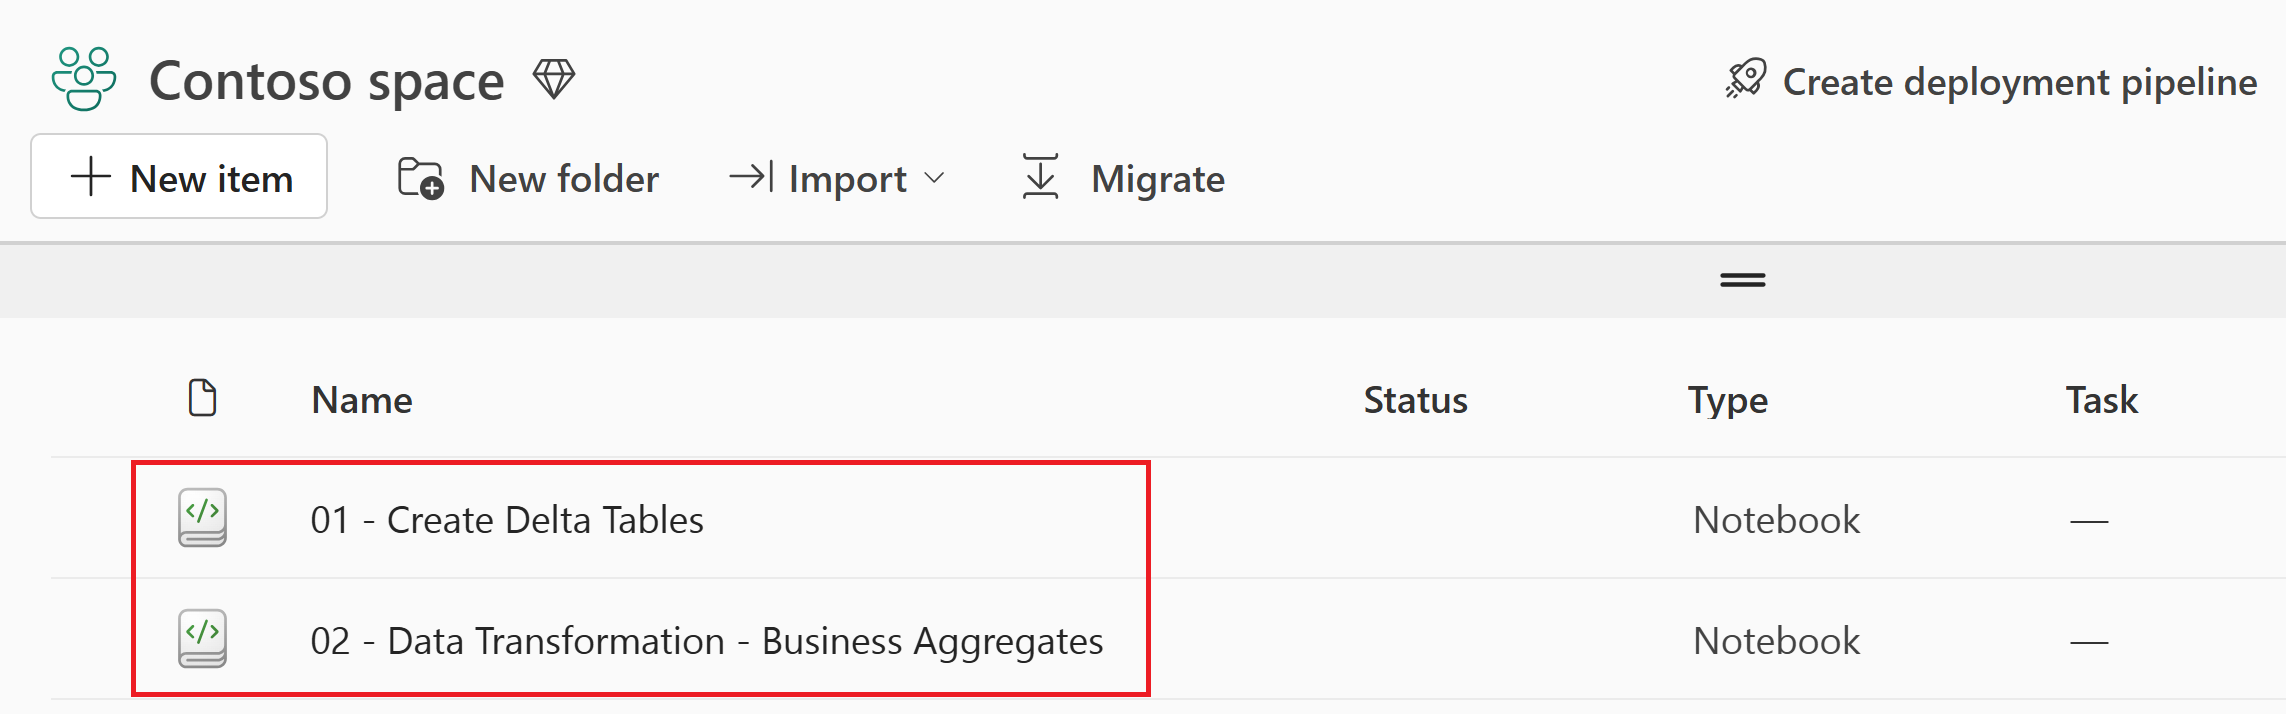
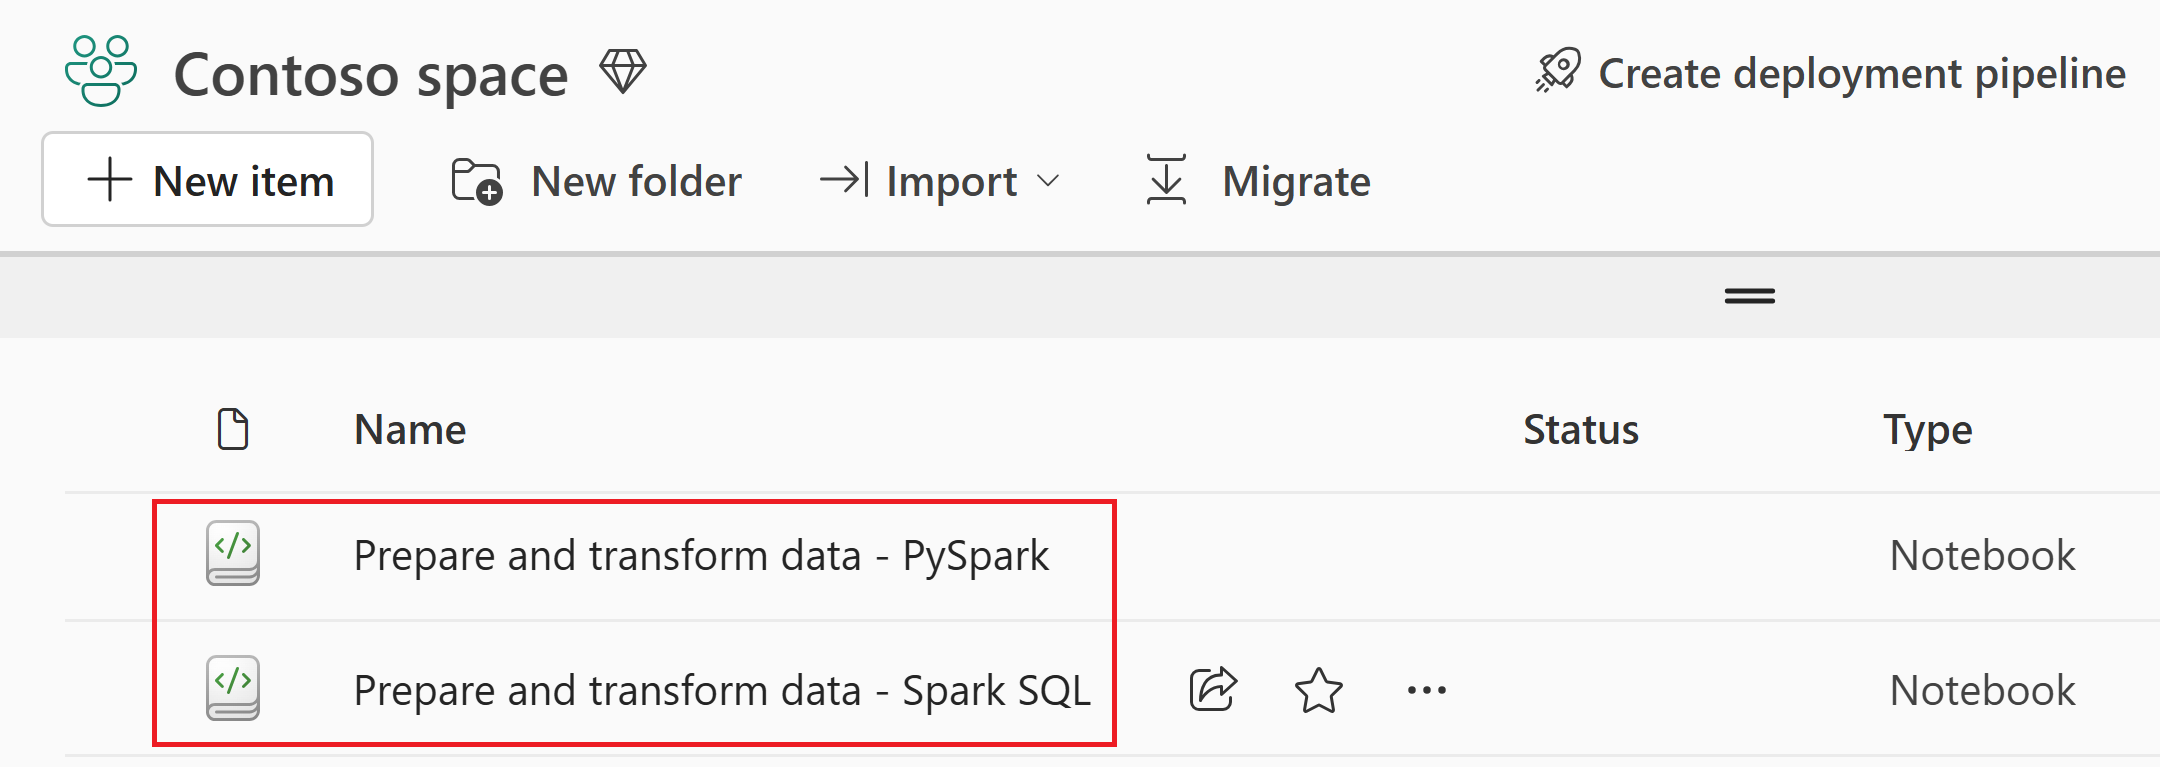
PySpark and Spark SQL parity for lakehouse schemas enabled

diff --git a/docs/data-engineering/tutorial-lakehouse-data-preparation.md b/docs/data-engineering/tutorial-lakehouse-data-preparation.md
@@ -3,7 +3,7 @@ title: Lakehouse tutorial - Prepare and transform lakehouse data
 description: After ingesting raw data into your new lakehouse, you can transform it using notebooks and Spark runtime.
 ms.reviewer: arali
 ms.topic: tutorial
-ms.date: 02/14/2026
+ms.date: 02/21/2026
 ai-usage: ai-assisted
 ---
 
@@ -25,11 +25,6 @@ From the previous tutorial steps, you have raw data ingested from the source to 
 
 1. Download the notebooks from the [Lakehouse Tutorial Source Code](https://github.com/microsoft/fabric-samples/tree/main/docs-samples/data-engineering/Lakehouse%20Tutorial%20Source%20Code) folder.
 
-1. Choose one notebook based on your preferred language:
-
-   - **Prepare and transform data - PySpark** (`03 - Tutorial PySpark.ipynb`)
-   - **Prepare and transform data - Spark SQL** (`03 - Tutorial Spark SQL.ipynb`)
-
 1. In your browser, go to your Fabric workspace in the [Fabric portal](https://app.fabric.microsoft.com/).
 
 1. Select **Import** > **Notebook** > **From this computer**.
@@ -38,9 +33,10 @@ From the previous tutorial steps, you have raw data ingested from the source to 
 
 1. Select **Upload** from the **Import status** pane that opens on the right side of the screen.
 
-1. Select only the notebook that matches your selected language.
+1. Select only the notebook that matches your preferred coding language. 
 
-   :::image type="content" source="media\tutorial-lakehouse-data-preparation\select-notebooks-open.png" alt-text="Screenshot showing where to find the downloaded notebooks and the Open button." lightbox="media\tutorial-lakehouse-data-preparation\select-notebooks-open.png":::
+   - **PySpark** (`Prepare and transform data - PySpark.ipynb`)
+   - **Spark SQL** (`Prepare and transform data - Spark SQL.ipynb`)
 
 1. Select **Open**. A notification indicating the status of the import appears in the top right corner of the browser window.
 
@@ -54,26 +50,27 @@ From the previous tutorial steps, you have raw data ingested from the source to 
 
    :::image type="content" source="media\tutorial-lakehouse-data-preparation\existing-notebook-ribbon.png" alt-text="Screenshot showing the list of successfully imported notebooks." lightbox="media\tutorial-lakehouse-data-preparation\existing-notebook-ribbon.png":::
 
-1. Select your imported notebook (**Prepare and transform data - PySpark** or **Prepare and transform data - Spark SQL**) and select **Open**. The notebook is already linked to your opened lakehouse, as shown in the lakehouse **Explorer**.
-
-    > [!NOTE]
-    > In the following steps, you run each cell in the notebook sequentially. To execute a cell, select the **Run** icon that appears to the left of the cell upon hover, or press **SHIFT + ENTER** on your keyboard while the cell is selected. Alternatively, you can select **Run all** on the top ribbon (under **Home**) to execute all cells in sequence.
+1. Select your imported notebook for PySpark or Spark SQL and select **Open**. The notebook is already linked to your opened lakehouse, as shown in the lakehouse **Explorer**.
 
 You're now ready to run the notebook cells that create and transform your Delta tables.
+
+In the following sections, run the notebook cells sequentially. To execute a cell, select the **Run** icon that appears to the left of the cell on hover. You can also select **Run all** on the top ribbon (**Home**) to run all cells in sequence.
+
+> [!IMPORTANT]
+> This tutorial requires lakehouse schemas to be enabled. If schemas aren't enabled, the code in this tutorial won't work as intended.
+> 
+> In the imported notebook, you see both **Path 1** and **Path 2** sections. For this tutorial, use **Path 1** (lakehouse schemas enabled) and ignore **Path 2** (lakehouse schemas not enabled).
 
 ## Create Delta tables
 
 In this section, you run the notebook cells to create Delta tables from the raw data.
-
-> [!IMPORTANT]
-> This tutorial requires lakehouse schemas to be enabled. If schemas aren't enabled, the code in this tutorial won't work as intended.
 
 The tables follow a star schema, which is a common pattern for organizing analytical data:
 
 - A **fact table** (`fact_sale`) contains the measurable events of the business — in this case, individual sales transactions with quantities, prices, and profit.
 - **Dimension tables** (`dimension_city`, `dimension_customer`, `dimension_date`, `dimension_employee`, `dimension_stock_item`) contain the descriptive attributes that give context to the facts, such as where a sale happened, who made it, and when.
 
-Select the tab that matches the notebook you imported, and keep using that same tab for all steps.
+In this tutorial page, select the tab that matches the notebook you imported, and keep using that same tab for all steps. The tabs are in this article, not in the notebook.
 
 1. **Cell 1 - Spark session configuration.** This cell enables two Fabric features that optimize how data is written and read in subsequent cells. [V-order](delta-optimization-and-v-order.md) optimizes the parquet file layout for faster reads and better compression. [Optimize write](delta-optimization-and-v-order.md#what-is-optimize-write) reduces the number of files written and increases individual file size.
 
@@ -98,8 +95,6 @@ Select the tab that matches the notebook you imported, and keep using that same 
 
    ---
     
-   :::image type="content" source="media\tutorial-lakehouse-data-preparation\spark-session-run-execution.png" alt-text="Screenshot of a Spark session configuration screen, including a code cell and Run icon." lightbox="media\tutorial-lakehouse-data-preparation\spark-session-run-execution.png":::
-
    > [!TIP]
    > You don't need to specify any Spark pool or cluster details. Fabric provides a default Spark pool called Live Pool for every workspace. When you execute the first cell, the live pool starts in a few seconds and establishes the Spark session. Subsequent cells run almost instantaneously while the session is active.
 

diff --git a/docs/data-engineering/tutorial-lakehouse-introduction.md b/docs/data-engineering/tutorial-lakehouse-introduction.md
@@ -3,7 +3,7 @@ title: "Lakehouse end-to-end scenario: overview and architecture"
 description: This article provides an overview of the lakehouse, including its architecture, the components involved in its implementation, and the semantic model.
 ms.reviewer: arali
 ms.topic: tutorial
-ms.date: 02/14/2026
+ms.date: 02/21/2026
 ai-usage: ai-assisted
 ---
 

diff --git a/docs/data-engineering/tutorial-lakehouse-clean-up.md b/docs/data-engineering/tutorial-lakehouse-clean-up.md
@@ -3,7 +3,7 @@ title: Lakehouse tutorial - clean up resources
 description: As a final step in the tutorial, clean up your resources by deleting individual items like the lakehouse or semantic model, or removing the entire workspace.
 ms.reviewer: arali
 ms.topic: tutorial
-ms.date: 02/14/2026
+ms.date: 02/21/2026
 ai-usage: ai-assisted
 ---
 

diff --git a/docs/data-engineering/tutorial-lakehouse-get-started.md b/docs/data-engineering/tutorial-lakehouse-get-started.md
@@ -3,7 +3,7 @@ title: Lakehouse tutorial - Create a workspace
 description: Learn how to create a workspace that you can use to create other items required by this end-to-end tutorial.
 ms.reviewer: arali
 ms.topic: tutorial
-ms.date: 02/14/2026
+ms.date: 02/21/2026
 ---
 
 # Lakehouse tutorial: Create a Fabric workspace

diff --git a/docs/data-engineering/tutorial-lakehouse-build-report.md b/docs/data-engineering/tutorial-lakehouse-build-report.md
@@ -3,7 +3,7 @@ title: Lakehouse tutorial - Create a semantic model and build a report
 description: Create a semantic model from your lakehouse data, define table relationships, and build a Power BI report.
 ms.reviewer: arali
 ms.topic: tutorial
-ms.date: 02/14/2026
+ms.date: 02/21/2026
 ai-usage: ai-assisted
 ---
 

diff --git a/docs/data-engineering/tutorial-build-lakehouse.md b/docs/data-engineering/tutorial-build-lakehouse.md
@@ -6,7 +6,7 @@ ms.topic: tutorial
 ms.custom:
 - FY25Q1-Linter
 - sfi-image-nochange
-ms.date: 02/14/2026
+ms.date: 02/21/2026
 # Customer Intent: As a data engineer, I want to use lakehouses to transform data and build reports using Power BI and Fabric.
 ---
 

diff --git a/docs/data-engineering/tutorial-lakehouse-data-ingestion.md b/docs/data-engineering/tutorial-lakehouse-data-ingestion.md
@@ -4,7 +4,7 @@ description: In this tutorial, you ingest more dimensions and fact tables from t
 ms.reviewer: arali
 ms.topic: tutorial
 ms.custom: sfi-image-nochange
-ms.date: 02/14/2026
+ms.date: 02/21/2026
 ai-usage: ai-assisted
 ---
 
